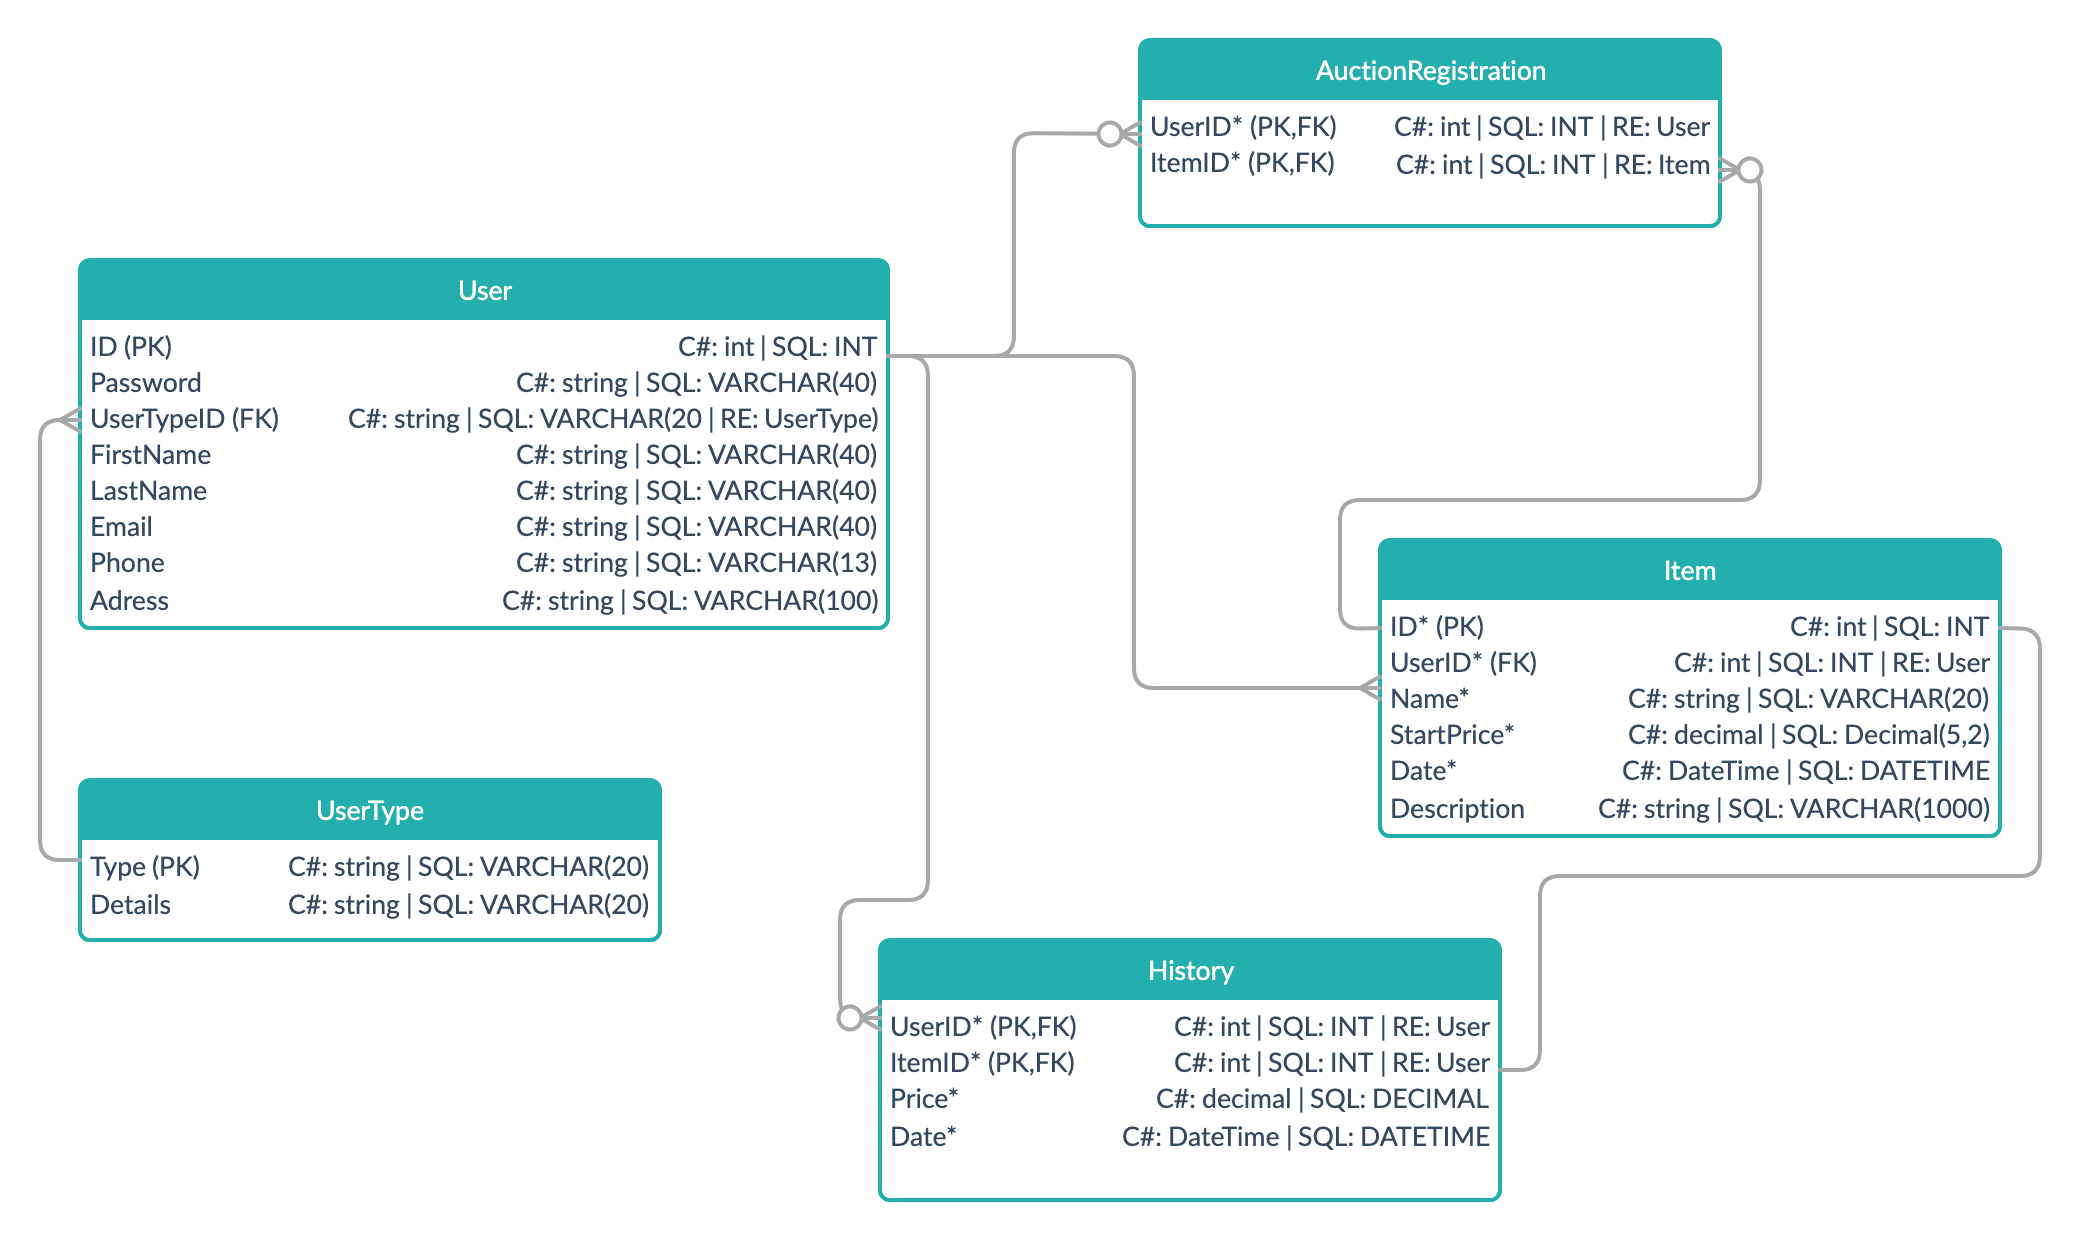
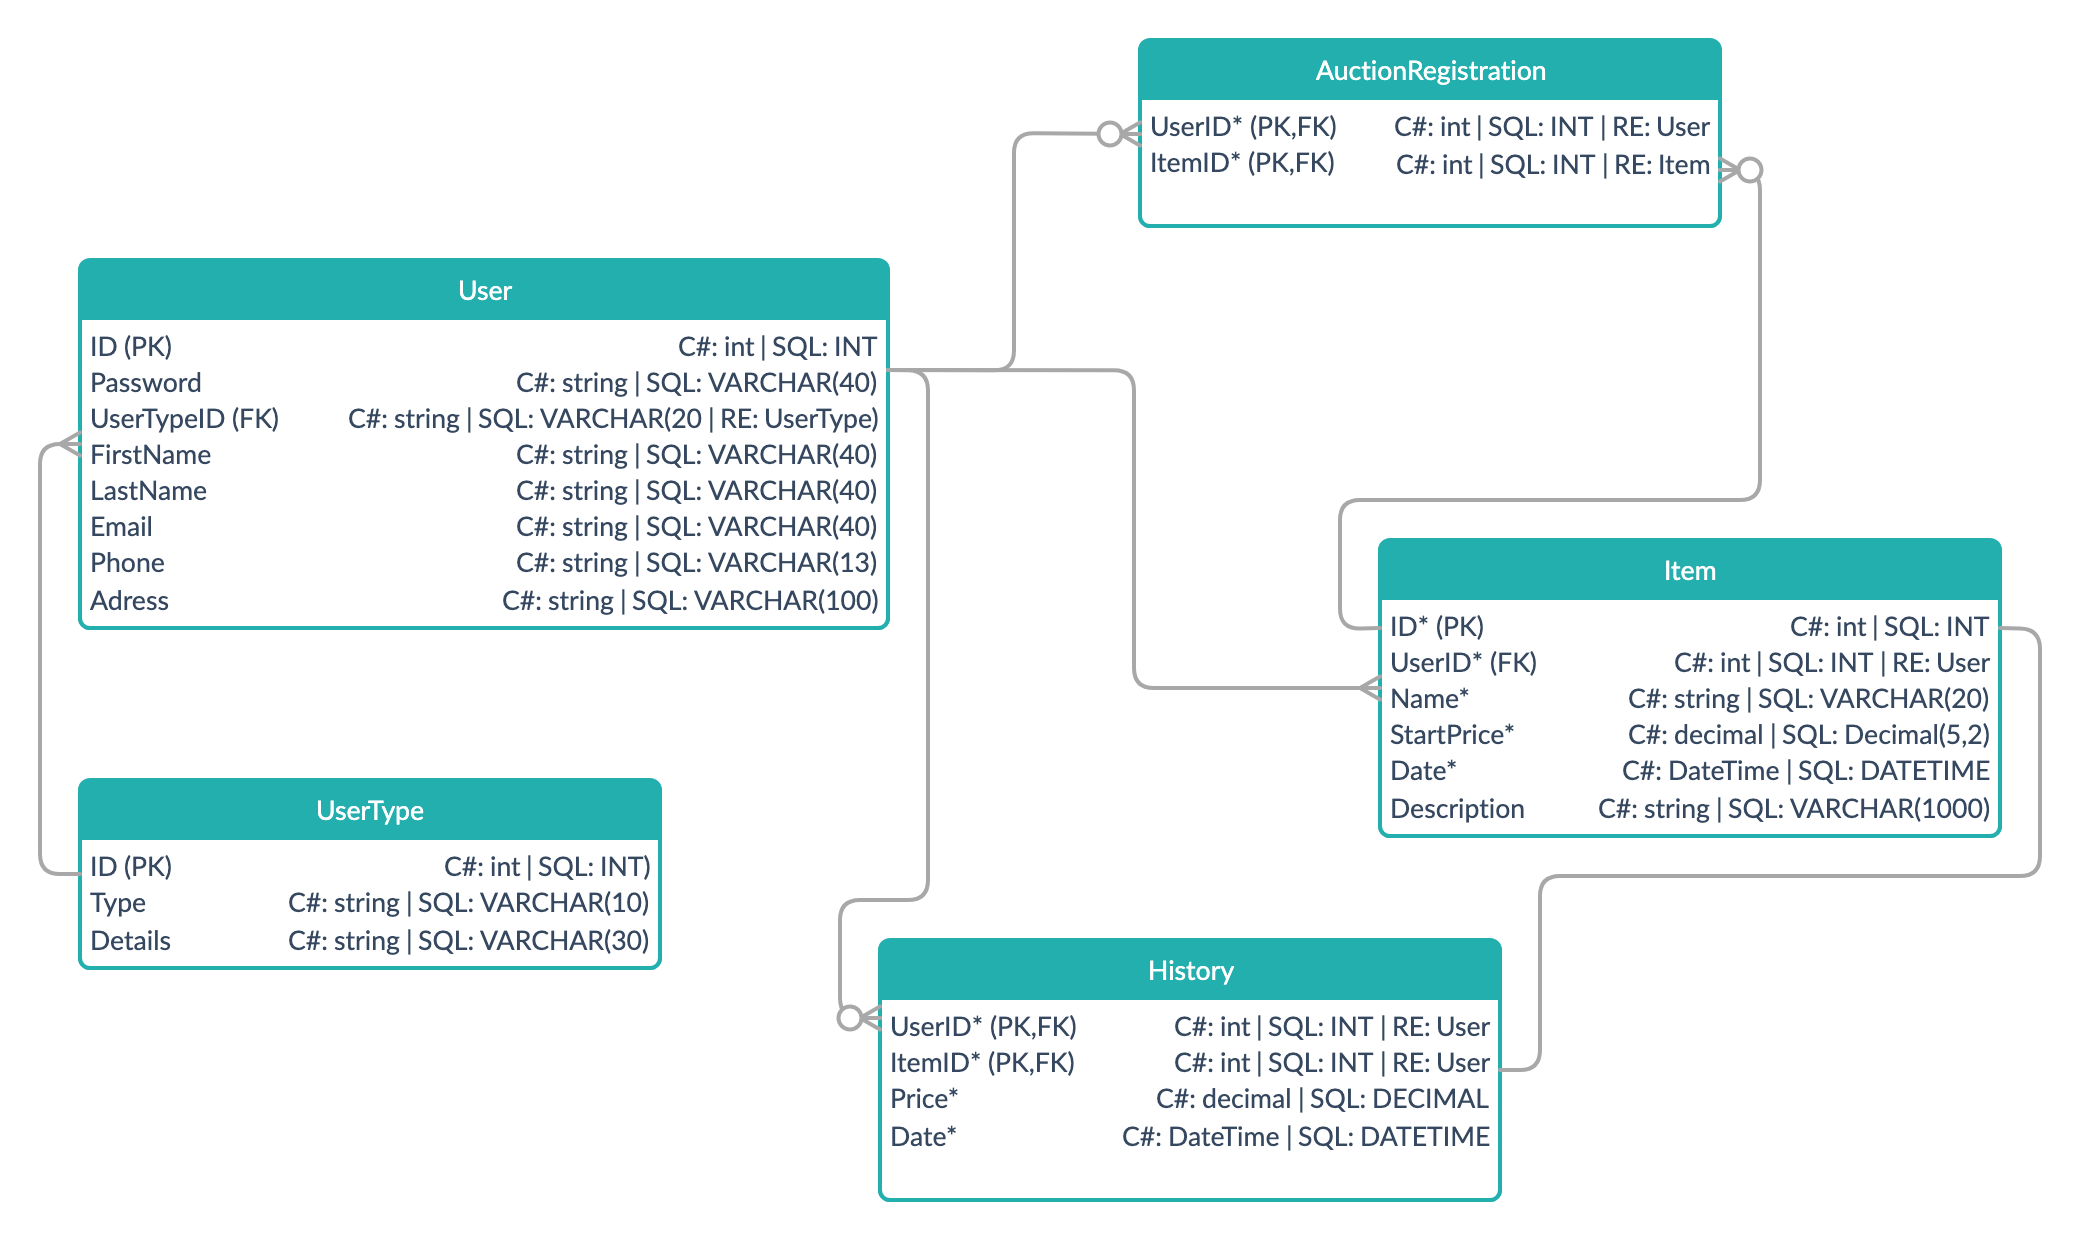
0.2.1
+ Models
+ Update Database Diagram
+ Composed Primary Key in Context API

Changed region(s): [[0.0, 0.6742, 0.3125, 0.7968], [0.4375, 0.2758, 0.5625, 0.3065], [0.0, 0.3371, 0.0625, 0.3677]]

diff --git a/ReadDeal/RealDeal.DataAcces/DataAccesDbContext.cs b/ReadDeal/RealDeal.DataAcces/DataAccesDbContext.cs
@@ -13,6 +13,16 @@ namespace RealDeal.DataAcces
         {
         }
 
+        public DbSet<UserType> UserTypes { get; set; }
+        public DbSet<User> Users { get; set; }
+        public DbSet<Item> Items { get; set; }
+        public DbSet<AuctionRegistration> AuctionRegistrations { get; set; }
+        public DbSet<History> Histories { get; set; }
 
+        protected override void OnModelCreating(ModelBuilder modelBuilder)
+        {
+            modelBuilder.Entity<AuctionRegistration>()
+                    .HasKey(a => new { a.UserID, a.ItemID });
+        }
     }
 }

diff --git a/ReadDeal/RealDeal.AppLogic/Models/User.cs b/ReadDeal/RealDeal.AppLogic/Models/User.cs
@@ -4,5 +4,13 @@ namespace RealDeal.AppLogic.Models
     public class User
     {
         public int ID { get; set; }
+        public string Password { get; set; }
+        public string UserTypeID { get; set; }
+        public UserType UserType { get; set; }
+        public string FirstName { get; set; }
+        public string LastName { get; set; }
+        public string Email { get; set; }
+        public string Adress { get; set; }
+        public string Phone { get; set; }
     }
 }

diff --git a/ReadDeal/RealDeal.AppLogic/Models/Item.cs b/ReadDeal/RealDeal.AppLogic/Models/Item.cs
@@ -1,0 +1,14 @@
+using System;
+namespace RealDeal.AppLogic.Models
+{
+    public class Item
+    {
+        public int ID { get; set; }
+        public int UserID { get; set; }
+        public User User { get; set; }
+        public string Name { get; set; }
+        public decimal StartPrice { get; set; }
+        public DateTime AuctionDate { get; set; }
+        public string Description { get; set; }
+    }
+}

diff --git a/ReadDeal/RealDeal.AppLogic/Models/History.cs b/ReadDeal/RealDeal.AppLogic/Models/History.cs
@@ -1,0 +1,13 @@
+using System;
+namespace RealDeal.AppLogic.Models
+{
+    public class History
+    {
+        public int UserID { get; set; }
+        public User User { get; set; }
+        public int ItemID { get; set; }
+        public Item Item { get; set; }
+        public decimal BuyPrice { get; set; }
+        public DateTime BuyDate { get; set; }
+    }
+}

diff --git a/ReadDeal/RealDeal.AppLogic/Models/AuctionRegistration.cs b/ReadDeal/RealDeal.AppLogic/Models/AuctionRegistration.cs
@@ -1,0 +1,11 @@
+using System;
+namespace RealDeal.AppLogic.Models
+{
+    public class AuctionRegistration
+    {
+        public int UserID { get; set; }
+        public User User { get; set; }
+        public int ItemID { get; set; }
+        public Item Item { get; set; }
+    }
+}

diff --git a/ReadDeal/RealDeal.AppLogic/Models/UserType.cs b/ReadDeal/RealDeal.AppLogic/Models/UserType.cs
@@ -1,0 +1,10 @@
+using System;
+namespace RealDeal.AppLogic.Models
+{
+    public class UserType
+    {
+        public int ID { get; set; }
+        public string Type { get; set; }
+        public string Details { get; set; }
+    }
+}
